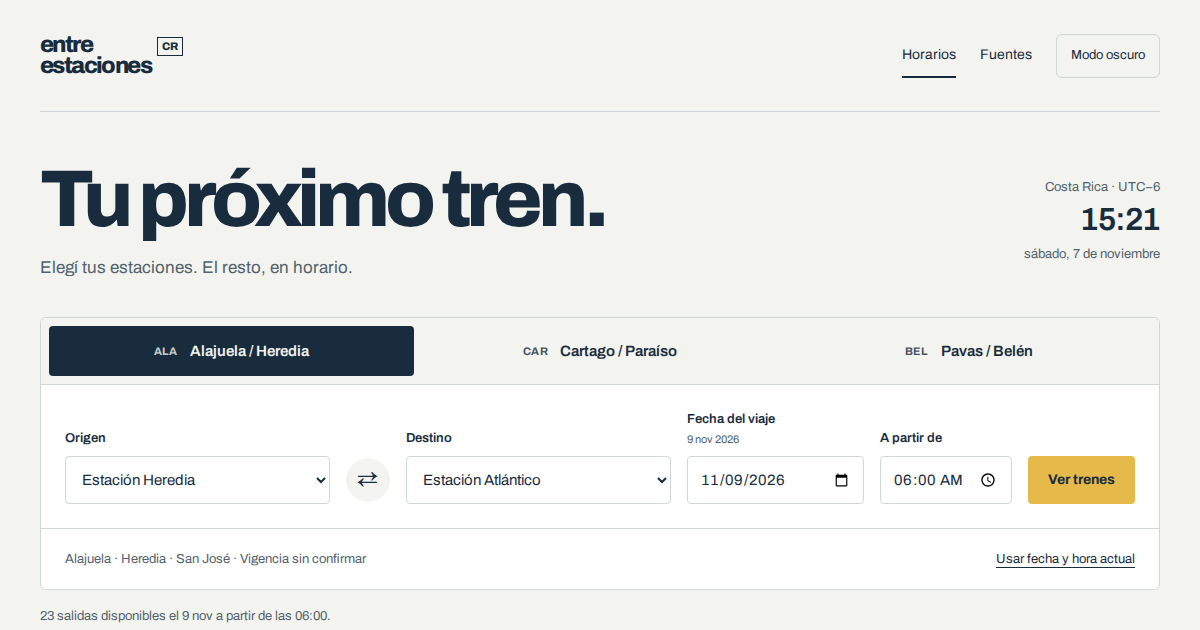
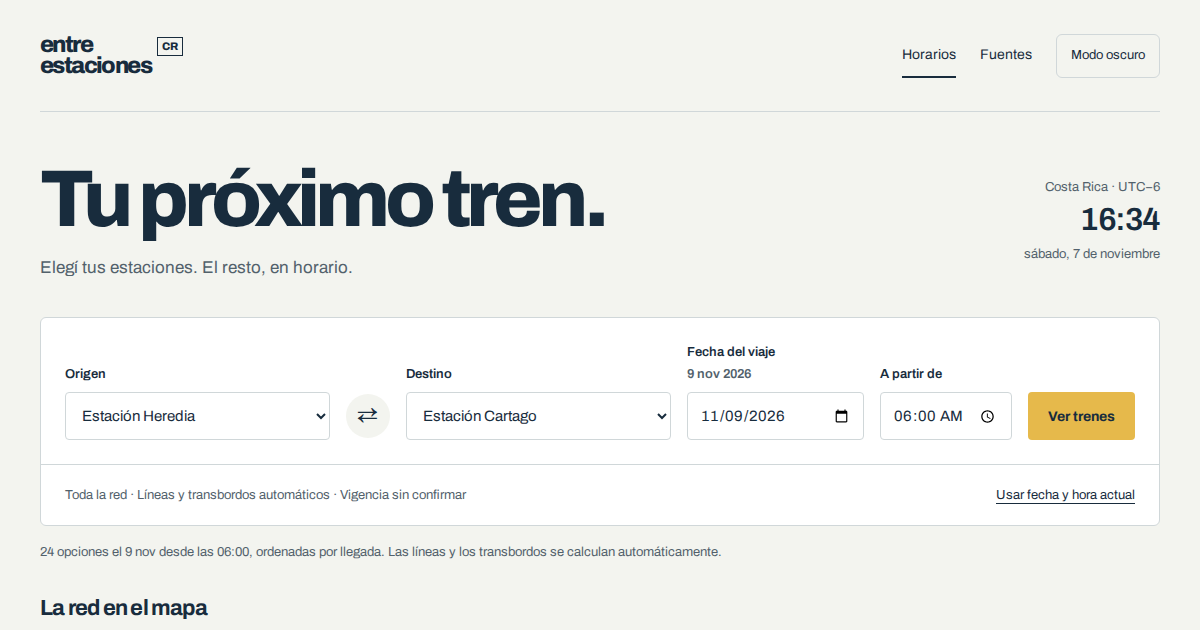
docs: explain automatic transfers and refresh network map previews

diff --git a/fuentes.html b/fuentes.html
@@ -10,8 +10,14 @@
     />
     <title>Horarios originales y fuentes · Entre estaciones</title>
     <link rel="icon" href="assets/favicon.svg" type="image/svg+xml" />
-    <meta property="og:title" content="Horarios originales · Entre estaciones" />
-    <meta property="og:description" content="Las hojas de referencia, sus tarifas y el alcance de esta guía independiente de trenes en Costa Rica." />
+    <meta
+      property="og:title"
+      content="Horarios originales · Entre estaciones"
+    />
+    <meta
+      property="og:description"
+      content="Las hojas de referencia, sus tarifas y el alcance de esta guía independiente de trenes en Costa Rica."
+    />
     <meta property="og:image" content="assets/og.png" />
     <meta name="twitter:card" content="summary_large_image" />
     <link rel="stylesheet" href="styles.css" />
@@ -20,9 +26,7 @@
   <body>
     <a class="skip-link" href="#fuentes">Saltar a las fuentes</a>
     <header class="site-header wrap">
-      <a class="wordmark" href="./"
-        >entre<br />estaciones<span>CR</span></a
-      >
+      <a class="wordmark" href="./">entre<br />estaciones<span>CR</span></a>
       <nav aria-label="Navegación principal">
         <a href="./">Horarios</a
         ><a href="fuentes.html" aria-current="page">Fuentes</a
@@ -95,8 +99,8 @@
             Los 94 servicios de las hojas, en tres corredores y ambos sentidos.
           </li>
           <li>
-            Trenes directos que tienen hora publicada tanto en tu origen como en
-            tu destino.
+            Viajes directos y combinaciones de trenes entre todas las
+            estaciones, sin elegir una línea.
           </li>
           <li>
             Salidas desde una fecha y hora de consulta, usando la zona horaria
@@ -117,14 +121,22 @@
           viernes indicado en las hojas.
         </p>
         <p>
-          No calculamos transbordos ni inventamos horas para estaciones sin
-          parada publicada. Las tarifas aparecen solo para las parejas de
-          estaciones impresas; no representan una cotización de cualquier viaje.
+          Los transbordos se calculan en una misma estación con un margen mínimo
+          de cinco minutos entre trenes. Es un supuesto de planificación, no una
+          conexión garantizada. No se inventan caminatas entre estaciones
+          distintas ni horas para paradas no publicadas. Las tarifas aparecen
+          solo para las parejas de estaciones impresas; no representan una
+          cotización de cualquier viaje.
         </p>
         <p>
-          El mapa geográfico conserva las coordenadas aproximadas del prototipo
-          de Alajuela / Heredia. La línea conecta estaciones y no reproduce las
-          vías. Los otros corredores se muestran como diagramas de estaciones.
+          El mapa muestra las 34 estaciones de las tres líneas con coordenadas
+          del
+          <a href="https://feeds.simovi.org/incofer/schedule/gtfs.zip"
+            >GTFS de INCOFER / SIMOVI</a
+          >, recuperadas el 7 de noviembre de 2026. Ese feed se usa solo para
+          las ubicaciones; los horarios siguen siendo los de las hojas
+          aportadas. Las líneas del mapa conectan estaciones y no reproducen
+          exactamente las vías.
         </p>
         <p>
           La sexta imagen aportada estaba vacía y no se usó como fuente. Esta

diff --git a/index.html b/index.html
@@ -154,7 +154,7 @@
           </p>
           <div id="more-departures"></div>
           <details class="full-schedule" id="full-schedule">
-            <summary>Ver todas las opciones del día</summary>
+            <summary>Ver más opciones del día</summary>
             <p class="small">
               Patrón regular de lunes a viernes. Las salidas anteriores a la
               hora consultada también aparecen aquí.

diff --git a/README.md b/README.md
@@ -1,16 +1,17 @@
 <h1 align="center">Entre estaciones</h1>
 <p align="center">Tu próximo tren en Costa Rica, con sus horas y paradas publicadas.</p>
 
-![Planificador Entre estaciones: consulta de Heredia a San José, tablero de salidas y diagrama de estaciones](docs/desktop.png)
+![Planificador Entre estaciones: viaje de Heredia a Cartago con transbordo automático y mapa de toda la red](docs/desktop.png)
 
-Una guía independiente para consultar trenes de **Alajuela, Heredia, San José, Cartago, Paraíso, Pavas y Belén**. Elegís el corredor, las estaciones, la fecha y la hora; el planificador muestra los servicios directos que tienen parada publicada en ambos extremos.
+Una guía independiente para consultar trenes de **Alajuela, Heredia, San José, Cartago, Paraíso, Pavas y Belén**. Elegís solo el origen, el destino, la fecha y la hora. El planificador busca en toda la red y combina los trenes y transbordos automáticamente, ordenados por hora de llegada.
 
 > **Horarios publicados, sin seguimiento en vivo.** Las imágenes de referencia no indican fecha de vigencia. Confirmá cambios, feriados y tarifas con [INCOFER](https://www.incofer.go.cr/) antes de viajar.
 
 ## El viaje, de un vistazo
 
-- **La próxima salida primero.** Hora de salida, llegada y duración, seguidas por los demás servicios disponibles.
-- **Cada tren tiene sus paradas.** Seleccioná una salida para ver sus horas en el diagrama; podés cambiar origen o destino desde las estaciones.
+- **Las conexiones se calculan solas.** No hay que elegir una línea. El itinerario indica qué tren tomar, dónde bajar, cuánto esperar y qué tren sigue.
+- **La mejor llegada primero.** Hora de salida, llegada, tiempo total y cantidad de transbordos, con alternativas para comparar.
+- **El mapa siempre visible.** Los 34 puntos de toda la red permiten elegir origen o destino; el viaje seleccionado se resalta en dorado.
 - **El día importa.** Zona horaria `America/Costa_Rica`, fines de semana sin servicio regular y búsqueda del próximo día hábil cuando ya pasó el último tren.
 - **Un enlace para tu viaje.** Copiá la consulta con estaciones, fecha y hora, y volvé a abrirla con esos mismos valores.
 - **Claro u oscuro.** Ambos temas funcionan en teléfono, tableta y escritorio, con controles de teclado y movimiento reducido.
@@ -27,6 +28,10 @@ Las capturas muestran una consulta de ejemplo para el **9 de noviembre de 2026 a
 | **Total** | | **94** |
 
 Los servicios parciales conservan sus extremos originales. Una celda ausente significa que no hay hora publicada para esa estación; no se interpolan paradas. Las tarifas se muestran únicamente para las parejas de estaciones impresas en las hojas.
+
+La lista de pasos funciona sin servicios externos. El mapa carga automáticamente las tres líneas, con coordenadas del GTFS de INCOFER / SIMOVI y mapa base de OpenStreetMap. Si falla su carga, los viajes siguen disponibles y aparece un botón para reintentar.
+
+Los transbordos requieren **al menos cinco minutos** entre llegada y salida en la misma estación. Ese margen es una decisión de planificación, no una garantía de INCOFER. Se admiten varios cambios de tren; no se inventan caminatas entre estaciones distintas ni conexiones al día siguiente.
 
 ## Probar en local
 
@@ -54,7 +59,7 @@ npx playwright install chromium
 npm run test:browser
 ```
 
-La prueba de navegador cubre los tres corredores, ambos sentidos, fechas y casos sin servicio, selección de paradas, enlace compartido, temas, teclado, movimiento reducido, fallos de carga y tamaños de 320 a 1920px. Ejecuta axe para WCAG AA y guarda las capturas en `.shots/`.
+La prueba de navegador cubre transbordos automáticos, los 34 marcadores y la selección de estaciones desde el mapa, fechas y casos sin servicio, enlace compartido, temas, teclado, movimiento reducido, fallos de carga con reintento y tamaños de 320 a 1920px. Ejecuta axe para WCAG AA y guarda las capturas en `.shots/`.
 
 Para otro servidor: `TEST_URL=http://127.0.0.1:4400 npm run test:browser`. Si ya tenés un Chromium compatible, podés indicar `PLAYWRIGHT_CHROMIUM_EXECUTABLE_PATH`.
 
@@ -66,7 +71,9 @@ app.mjs                 Interacciones, resultados y diagrama
 styles.css              Sistema visual y adaptación a pantallas
 theme.js                Tema del sistema y preferencia local
 map.mjs                 Mapa geográfico de carga opcional
-lib/journeys.mjs         Búsqueda directa y calendario de servicio
+lib/journeys.mjs         Horas y calendario de servicio
+lib/transfers.mjs        Búsqueda automática de conexiones en toda la red
+data/coordinates.mjs    Coordenadas de las 34 estaciones
 data/schedules.mjs      Horarios y tarifas transcritos
 data/sources/           Las cinco hojas de referencia originales
 fuentes.html            Procedencia, límites y acceso a las imágenes
@@ -87,4 +94,4 @@ Antes de publicar, agregá las URL canónicas, las URL absolutas de la imagen so
 
 ---
 
-Esta guía no calcula transbordos ni conoce retrasos, cancelaciones, feriados o cambios posteriores a las imágenes aportadas. Las pruebas de navegador emulan tamaños y condiciones: no sustituyen una revisión en un teléfono real.
+Esta guía calcula transbordos con los horarios publicados, sin conocer retrasos, cancelaciones, feriados o cambios posteriores a las imágenes aportadas. Las pruebas de navegador emulan tamaños y condiciones: no sustituyen una revisión en un teléfono real.
